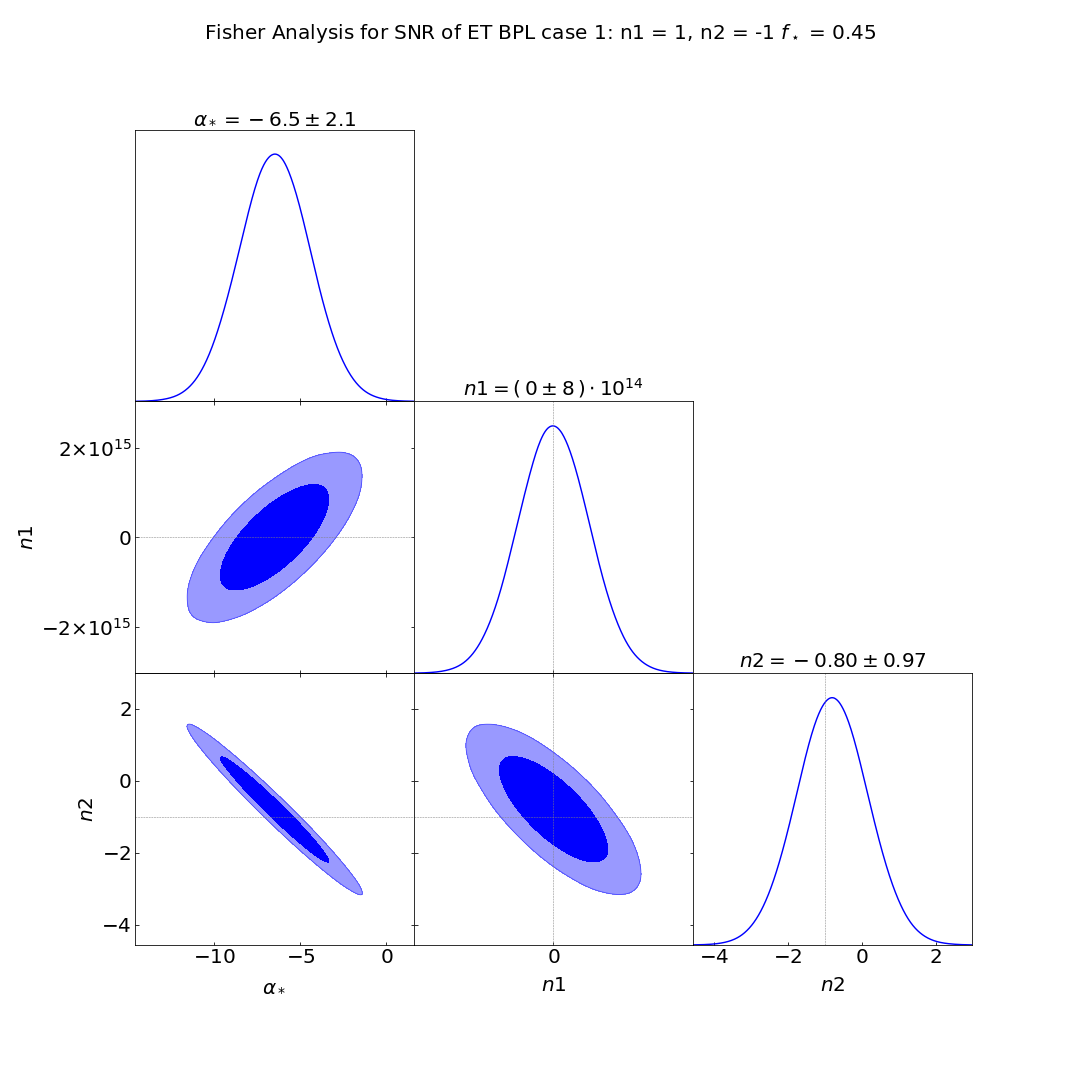
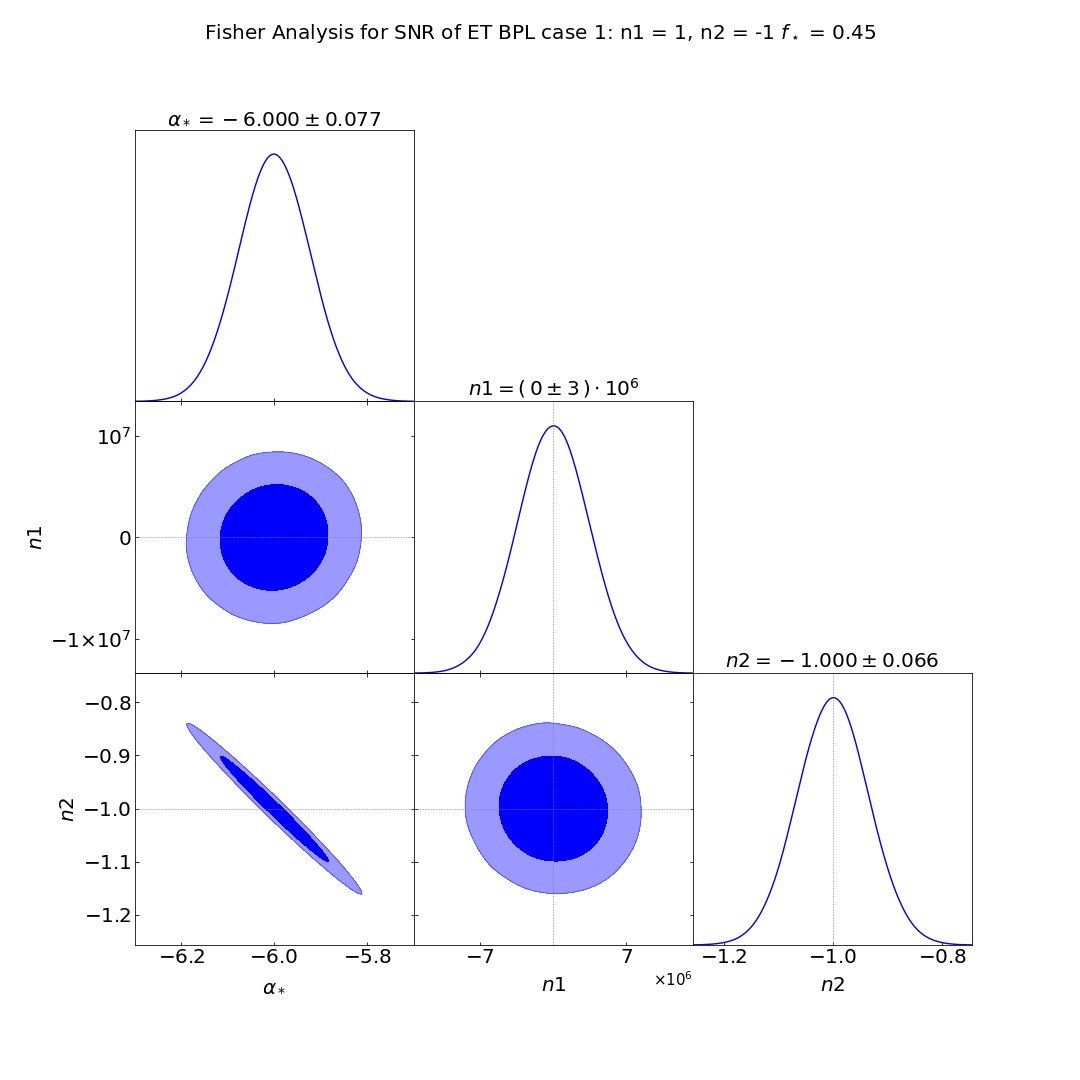
update

diff --git a/Fisher/FisherMatrixBPLS.py b/Fisher/FisherMatrixBPLS.py
@@ -131,7 +131,7 @@ g = plots.get_subplot_plotter(subplot_size=5)
 g.settings.axes_fontsize=size
 g.settings.legend_fontsize = size
 g.settings.axes_labelsize = size
-g.triangle_plot([samples2], contour_colors = ['red'], 
+g.triangle_plot([samples], contour_colors = ['red'], 
                 filled=True, markers={r'\alpha_*': meansA[0],'n1': meansA[1], 'n2':meansA[2]}, title_limit=1)
 plt.suptitle(r'Fisher Analysis for SNR of LISA BPL case 1: n1 = {nom1}, n2 = {nom2} $f_\star$ = {fbreak}'.format(nom1=n1, nom2=n2, fbreak=fstar), fontsize=size)
 plt.savefig('/Users/alisha/Documents/LISA_ET/Fisher graphs/FISHERBPL_LISA1.png')
@@ -221,7 +221,7 @@ g = plots.get_subplot_plotter(subplot_size=5)
 g.settings.axes_fontsize=size
 g.settings.legend_fontsize = size
 g.settings.axes_labelsize = size
-g.triangle_plot([samples2], contour_colors = ['blue'], 
+g.triangle_plot([samples], contour_colors = ['blue'], 
                 filled=True, markers={r'\alpha_*': meansA[0],'n1': meansA[1], 'n2':meansA[2]}, title_limit=1)
 plt.suptitle(r'Fisher Analysis for SNR of ET BPL case 1: n1 = {nom1}, n2 = {nom2} $f_\star$ = {fbreak}'.format(nom1=n1, nom2=n2, fbreak=fstar), fontsize=size)
 plt.savefig('/Users/alisha/Documents/LISA_ET/Fisher graphs/FISHERBPL_ET1.png')
@@ -244,7 +244,7 @@ covmA = np.linalg.inv((FMA))
 covmB = np.linalg.inv((FMB))
 
 
-meansA = np.array((a1, nom1, nom2))
+meansA = np.array((a1, n1, n2))
 meansB = np.array((a2, nom1, nom2))
 nsamp = int(1E6)
 samps = np.random.multivariate_normal(meansA, covmA, size=nsamp, tol=1e-6)
@@ -259,7 +259,7 @@ g = plots.get_subplot_plotter(subplot_size=5)
 g.settings.axes_fontsize=size
 g.settings.legend_fontsize = size
 g.settings.axes_labelsize = size
-g.triangle_plot([samples2], contour_colors = ['indigo'], 
+g.triangle_plot([samples], contour_colors = ['indigo'], 
                 filled=True, markers={r'\alpha_*': meansA[0],'n1': meansA[1], 'n2':meansA[2]}, title_limit=1)
 plt.suptitle(r'Fisher Analysis for SNR of LISA + ET BPL: n1 = {nom1}, n2 = {nom2} $f_\star$ = {fbreak}'.format(nom1=n1, nom2=n2, fbreak=fstar), fontsize=size)
 plt.savefig('/Users/alisha/Documents/LISA_ET/Fisher graphs/FISHERBPL_COMB1.png')
